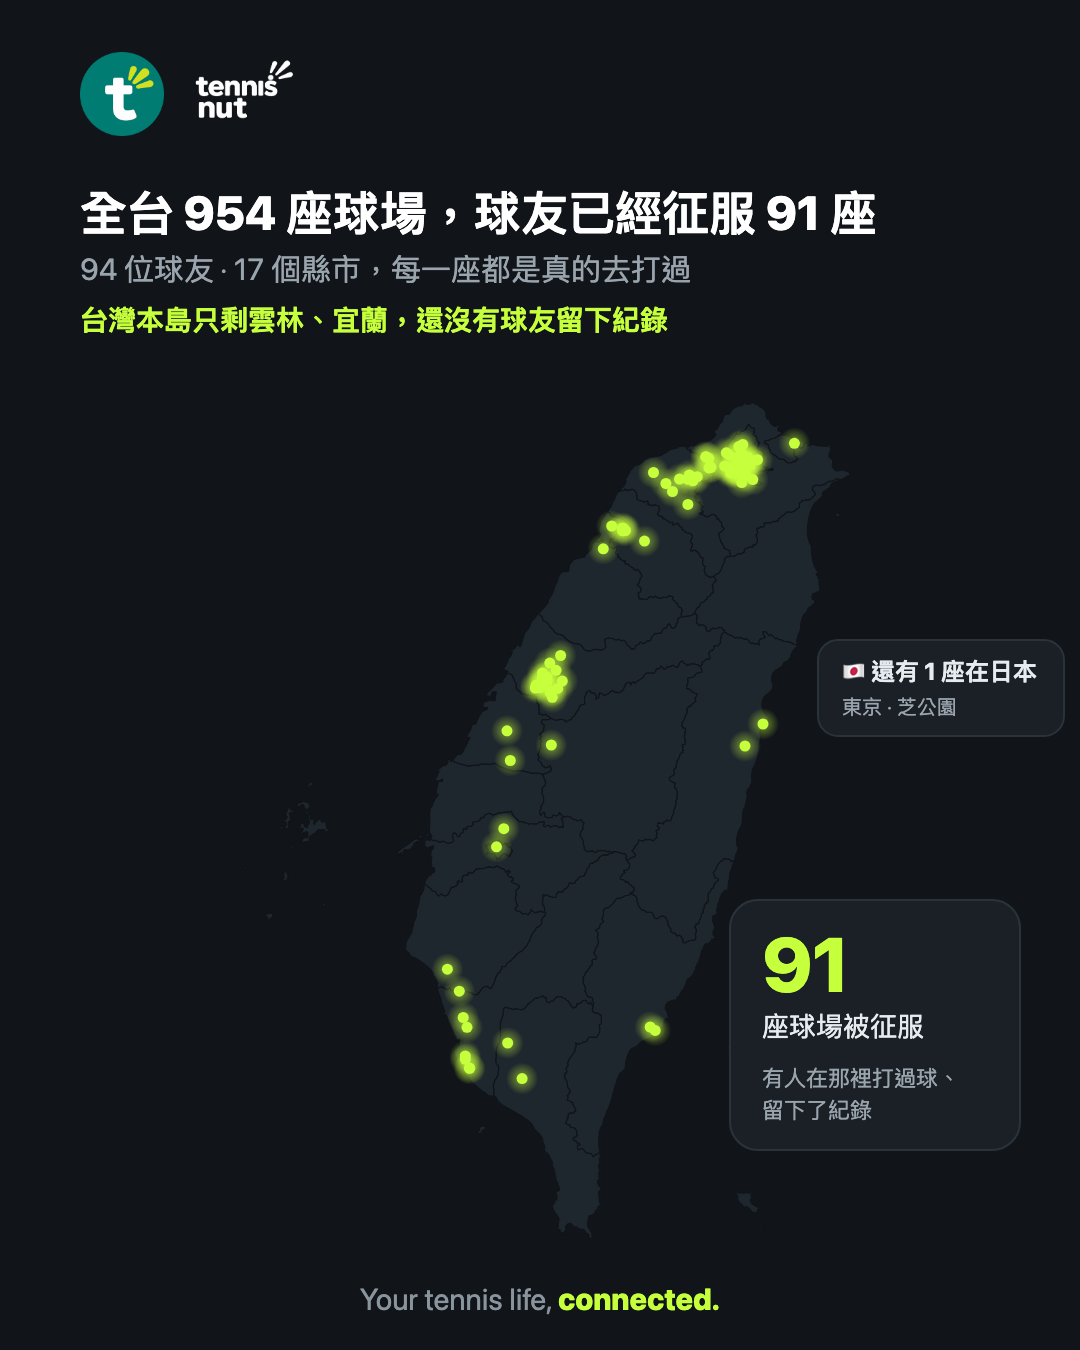
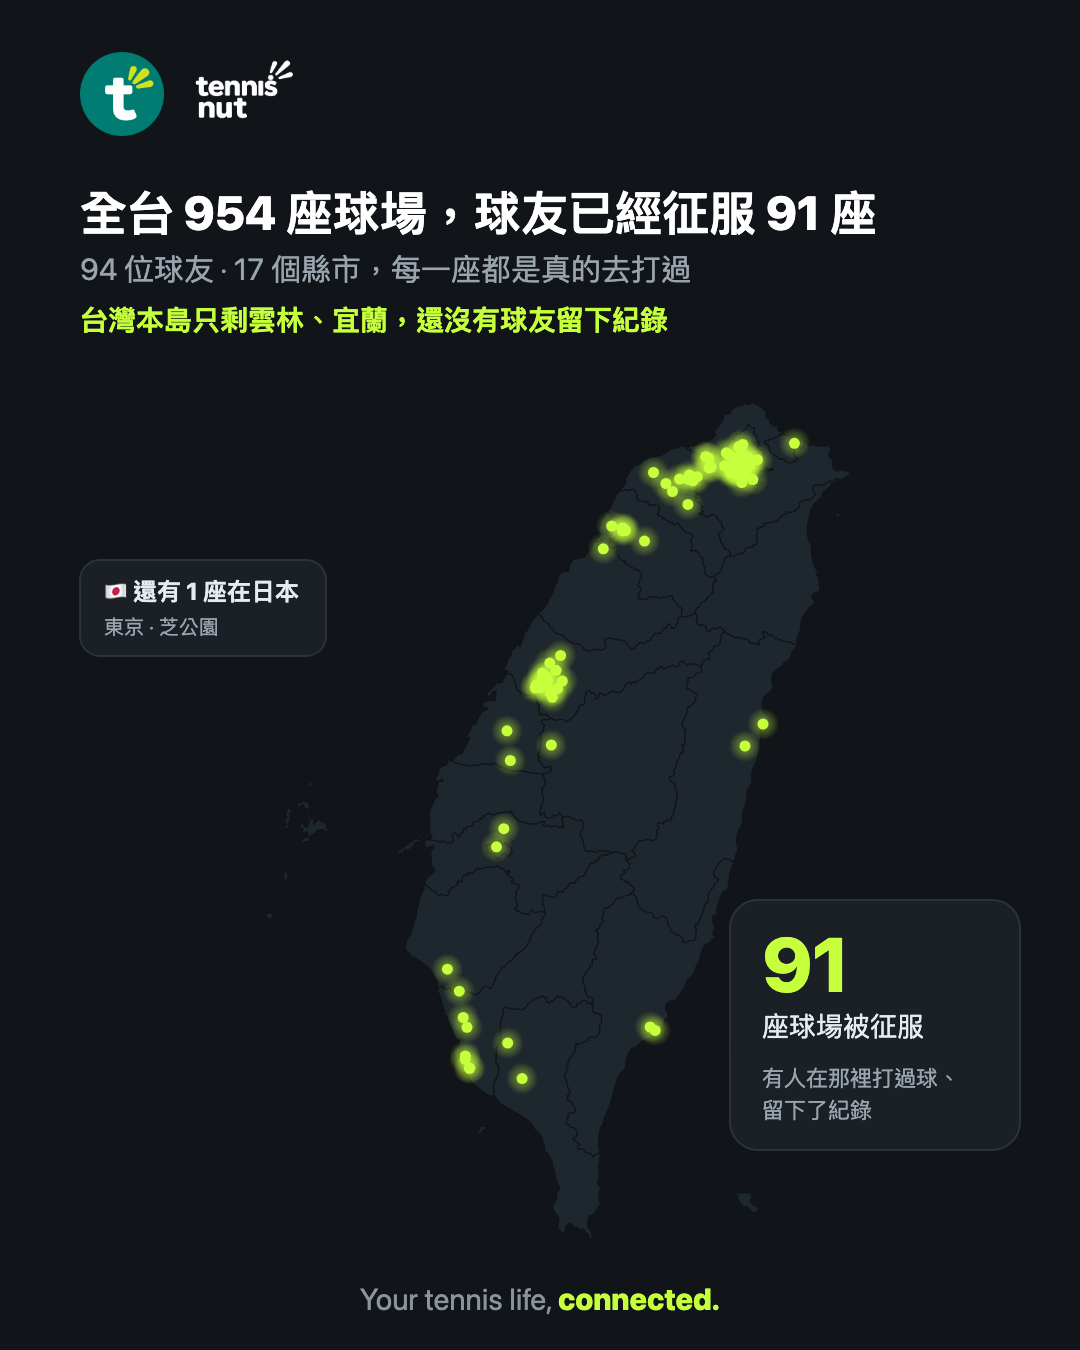
cards-ig-1010: 日本小框移到左半邊

Changed region(s): [[0.0917, 0.4044, 0.275, 0.4978], [0.7639, 0.4667, 0.9778, 0.5289]]

diff --git a/cards-ig-1010/build_conquest.py b/cards-ig-1010/build_conquest.py
@@ -21,7 +21,7 @@ o.append('<g>'+''.join(f'<circle cx="{x:.1f}" cy="{y:.1f}" r="5.5" fill="{T["acc
 # 右上角：日本那一筆
 abroad=[c for c in cs if c not in tw]
 if abroad:
-    bx,by=818,640
+    bx,by=80,560
     o.append(f'<rect x="{bx}" y="{by}" width="246" height="96" rx="20" fill="{T["panel"]}" stroke="{T["edge"]}" stroke-width="2"/>')
     o.append(f'<text x="{bx+24}" y="{by+40}" font-size="24" font-weight="700" fill="{T["label"]}">🇯🇵 還有 1 座在日本</text>')
     o.append(f'<text x="{bx+24}" y="{by+74}" font-size="20" fill="{T["sub"]}">東京 · 芝公園</text>')
